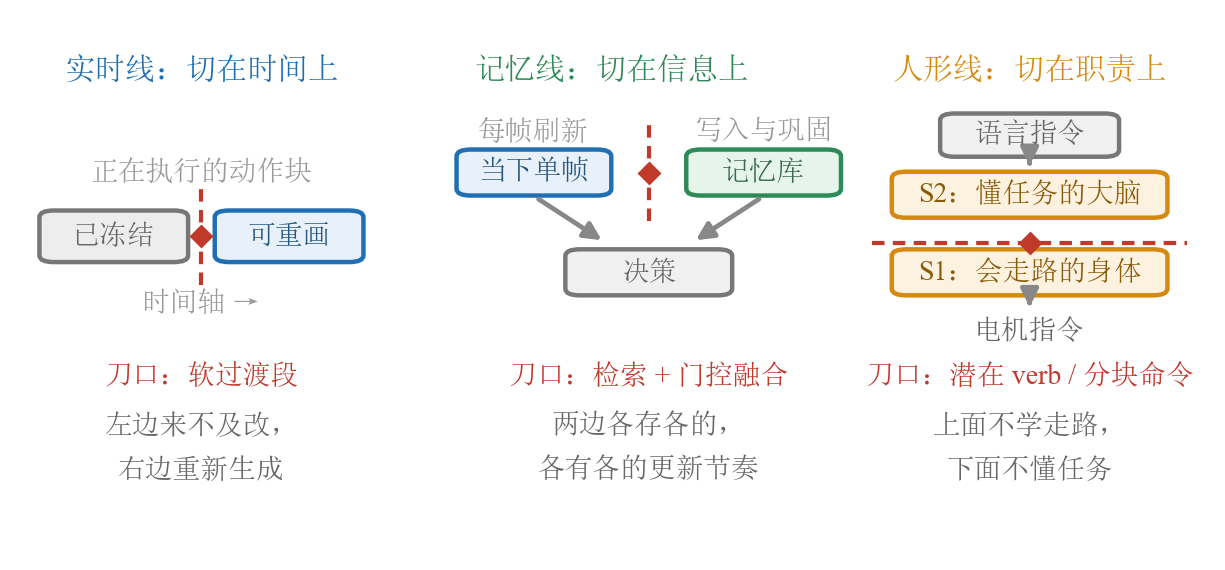
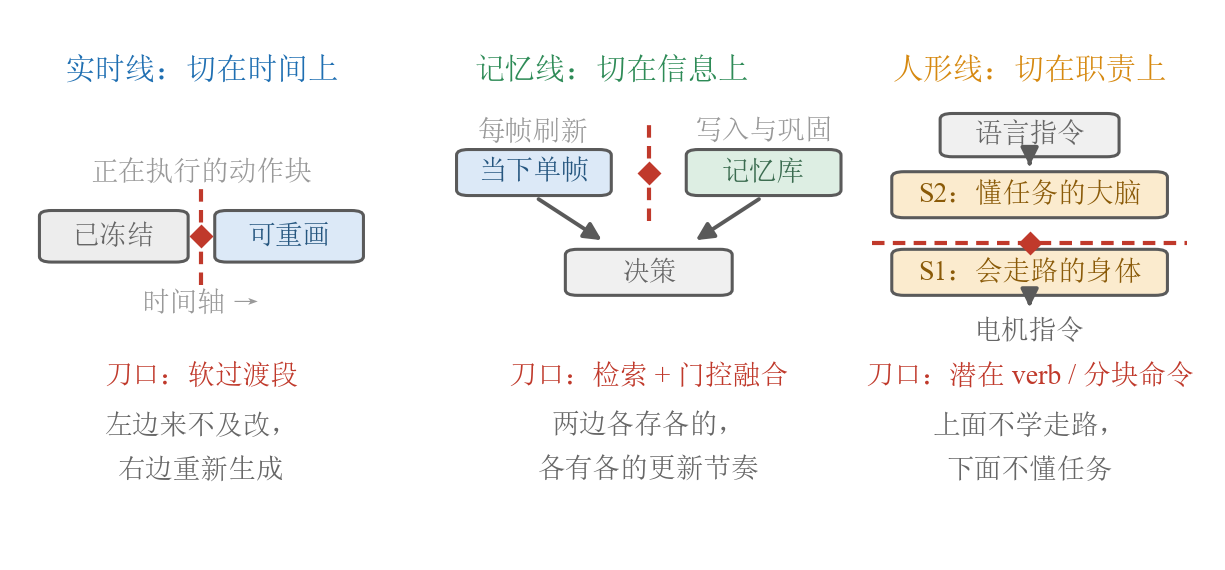
style(figures): 框线与箭头统一成流程图观感
参照 fig142-rl-taxonomy（draw.io）：细深灰框线 + 黑字 + 淡填充，
颜色只留在框的填充上，不再每个元素各自上色。

- box()/plain_box()：linewidth 2 → 1.1，边框与文字改 EDGE/INK，圆角收小
- FILL 五色整体调淡
- arrow()/connect()：默认色改 EDGE、线宽 1.7 → 1.4
- 28 处装饰性彩色箭头统一成深灰；A2C 与 DDPG 的线色有语义（图注点名
  红的更新 actor、紫的更新 critic），保留

diff --git a/assets/figures/render_diagrams.py b/assets/figures/render_diagrams.py
@@ -51,18 +51,25 @@ BODY_WIDTH_IN = 6.5    # A4 加 1 英寸边距后的版心宽度
 MIN_PRINT_PT = 8.0     # 图内最小字印在纸上的下限
 
 BLUE, GREEN, ORANGE, RED, GREY = "#1F6FB2", "#2E8B57", "#D68910", "#C0392B", "#777777"
-FILL = {BLUE: "#E8F1FA", GREEN: "#E7F4EC", ORANGE: "#FDF2E0", RED: "#FBEAE8", GREY: "#F4F4F4"}
+FILL = {BLUE: "#DCE9F7", GREEN: "#DDEEE3", ORANGE: "#FBEBCE", RED: "#F7DDDA", GREY: "#EDEDED"}
+
+# 流程图的线条与文字统一走这三个常量，颜色只留在框的填充上。
+# 参照 fig142-rl-taxonomy（draw.io 出品）：细深灰框线 + 黑字 + 淡填充，
+# 而不是"每个元素各自上色"——后者会让整张图花得刺眼、框线粗过内容。
+EDGE = "#5A5A5A"        # 框线与箭头
+INK = "#1A1A1A"         # 框内文字
+BOX_LW = 1.1
 
 
 def box(ax, x, y, w, h, color, lines):
     """在 (x,y) 画一个圆角框；lines 是 (文字, 字号, 是否加粗) 的列表，纵向居中均分。"""
-    ax.add_patch(FancyBboxPatch((x, y), w, h, boxstyle="round,pad=0.008,rounding_size=0.02",
-                                linewidth=2, edgecolor=color, facecolor=FILL[color]))
+    ax.add_patch(FancyBboxPatch((x, y), w, h, boxstyle="round,pad=0.008,rounding_size=0.014",
+                                linewidth=BOX_LW, edgecolor=EDGE, facecolor=FILL[color]))
     n = len(lines)
     gap = h / (n + 1)
     for i, (text, size, bold) in enumerate(lines, 1):
         ax.text(x + w / 2, y + h - i * gap, text, ha="center", va="center", fontsize=size,
-                fontweight="bold" if bold else "normal", color=color if bold else "#444444")
+                fontweight="bold" if bold else "normal", color=INK)
 
 
 def side(x, y, w, h, where, t=0.5):
@@ -84,14 +91,15 @@ def side(x, y, w, h, where, t=0.5):
     return (x + w, y + h * t)
 
 
-def plain_box(ax, x, y, w, h, color, fill=None, style="solid", lw=1.6):
+def plain_box(ax, x, y, w, h, color, fill=None, style="solid", lw=None):
     """只画框不写字，供需要自己排版内部元素的图使用。"""
-    ax.add_patch(FancyBboxPatch((x, y), w, h, boxstyle="round,pad=0.004,rounding_size=0.012",
-                                linewidth=lw, edgecolor=color, linestyle=style,
+    ax.add_patch(FancyBboxPatch((x, y), w, h, boxstyle="round,pad=0.004,rounding_size=0.010",
+                                linewidth=BOX_LW, edgecolor=EDGE, linestyle=style,
                                 facecolor=FILL[color] if fill is None else fill))
 
 
-def arrow(ax, a, b, color, rad=0.0, lw=1.7, style="-|>"):
+def arrow(ax, a, b, color=None, rad=0.0, lw=1.4, style="-|>"):
+    color = EDGE if color is None else color
     ax.add_patch(FancyArrowPatch(a, b, connectionstyle=f"arc3,rad={rad}", arrowstyle=style,
                                  mutation_scale=13, linewidth=lw, color=color))
 
@@ -99,7 +107,7 @@ def arrow(ax, a, b, color, rad=0.0, lw=1.7, style="-|>"):
 _NORMAL = {"top": (0, 1), "bottom": (0, -1), "left": (-1, 0), "right": (1, 0)}
 
 
-def connect(ax, src, src_side, dst, dst_side, color, lw=1.7, stub=0.055,
+def connect(ax, src, src_side, dst, dst_side, color=None, lw=1.4, stub=0.055,
             src_t=0.5, dst_t=0.5, lane=None, radius=0.016):
     """把两个框用正交折线连起来，线从边中点**垂直离开**框，不贴任何框边跑。
 
@@ -114,6 +122,7 @@ def connect(ax, src, src_side, dst, dst_side, color, lw=1.7, stub=0.055,
         lane: 中间那条公共通道的位置；两端同向时用它指定绕行的横带/竖带，
               避免两条线挤在同一条通道上。
     """
+    color = EDGE if color is None else color
     p0 = side(*src, src_side, src_t)
     p1 = side(*dst, dst_side, dst_t)
     n0, n1 = _NORMAL[src_side], _NORMAL[dst_side]
@@ -382,8 +391,8 @@ def policy_distribution():
         [("状态 $s$", 12, True), ("关节角度、躯干姿态", 10, False), ("目标速度指令", 10, False)])
     box(ax, 0.32, 0.46, 0.20, 0.34, ORANGE,
         [("策略网络 $\\pi$", 12, True), ("参数 $\\theta$", 10, False)])
-    arrow(ax, (0.265, 0.63), (0.315, 0.63), "#666666")
-    arrow(ax, (0.525, 0.63), (0.575, 0.63), "#666666")
+    arrow(ax, (0.265, 0.63), (0.315, 0.63), EDGE)
+    arrow(ax, (0.525, 0.63), (0.575, 0.63), EDGE)
 
     # 右端：高斯密度 + 一个采样点。均值 μ 是网络算出来的，宽度 σ 就是探索强度。
     inset = fig.add_axes([0.585, 0.30, 0.40, 0.44])
@@ -431,11 +440,11 @@ def onoff_dataflow():
     # 左：采样 → 更新 → 作废
     box(ax, 0.09, 0.68, 0.26, 0.13, BLUE, [("当前策略", 12, True)])
     box(ax, 0.07, 0.36, 0.30, 0.17, BLUE, [("新鲜数据", 12, True), ("（只来自当前策略）", 10, False)])
-    arrow(ax, (0.17, 0.675), (0.17, 0.535), BLUE)
+    arrow(ax, (0.17, 0.675), (0.17, 0.535), EDGE)
     label(ax, 0.135, 0.605, "采样", BLUE, 10, ha="right")
-    arrow(ax, (0.27, 0.535), (0.27, 0.675), BLUE)
+    arrow(ax, (0.27, 0.535), (0.27, 0.675), EDGE)
     label(ax, 0.305, 0.605, "更新一次", BLUE, 10, ha="left")
-    arrow(ax, (0.22, 0.35), (0.22, 0.24), GREY)
+    arrow(ax, (0.22, 0.35), (0.22, 0.24), EDGE)
     label(ax, 0.22, 0.185, "更新完立即作废", "#666666", 10)
     label(ax, 0.22, 0.09, "策略一变，全部重采", "#999999", 10)
 
@@ -715,18 +724,18 @@ def cartpole_task():
 
     # ④ 角速度画成杆尖上的一小段转向弧，落在它描述的那个量上
     arrow(ax, (pole_x + 0.008, pole_y + 0.030), (pole_x + 0.042, pole_y - 0.030),
-          "#8B5A2B", rad=-0.5, lw=1.4)
+          EDGE, rad=-0.5, lw=1.4)
     label(ax, pole_x + 0.050, pole_y - 0.048, "(4) 杆角速度 $\\dot{\\theta}$",
           "#8B5A2B", 10, ha="left")
 
     # 自由转轴是这个任务的题眼：没有任何电机去扶那根杆
-    arrow(ax, (0.075, 0.585), (CART_X - 0.020, PIVOT[1] + 0.014), "#333333", rad=-0.22, lw=1.4)
+    arrow(ax, (0.075, 0.585), (CART_X - 0.020, PIVOT[1] + 0.014), EDGE, rad=-0.22, lw=1.4)
     label(ax, 0.030, 0.615, "自由转轴：没有电机", "#333333", 10, True, ha="left")
 
     ax.annotate("", xy=(CART_X, TRACK_Y - 0.115), xytext=(XC, TRACK_Y - 0.115),
                 arrowprops=dict(arrowstyle="<|-|>", color=BLUE, linewidth=1.5))
     label(ax, 0.31, TRACK_Y - 0.175, "(1) 车位置 x", BLUE, 10, True)
-    arrow(ax, (CART_X + 0.045, TRACK_Y + 0.028), (CART_X + 0.108, TRACK_Y + 0.028), BLUE, lw=1.5)
+    arrow(ax, (CART_X + 0.045, TRACK_Y + 0.028), (CART_X + 0.108, TRACK_Y + 0.028), EDGE, lw=1.5)
     label(ax, CART_X + 0.118, TRACK_Y + 0.028, "(2) 车速度 $\\dot{x}$", BLUE, 10,
           ha="left", bg=True)
 
@@ -746,7 +755,7 @@ def cartpole_task():
         draw_pole(cx, 0.408, deg, 1.05, color, lw=2.6)
         label(ax, cx, 0.315, cap1, color, 10, True)
         label(ax, cx, 0.268, cap2, "#666666", 10)
-    arrow(ax, (0.762, 0.435), (0.828, 0.435), RED, lw=2.0)
+    arrow(ax, (0.762, 0.435), (0.828, 0.435), EDGE, lw=2.0)
     label(ax, 0.795, 0.478, "往右推", RED, 10, True)
 
     save(fig, "lecture16", "fig16-cartpole-task")
@@ -818,10 +827,10 @@ def realtime_three_routes():
     label(ax, 0.02, 0.115, "学习+投机层（Realtime-VLA V2、FLASH）", ORANGE, 11, True, ha="left")
     plain_box(ax, 0.02, 0.038, 0.29, 0.050, ORANGE)
     label(ax, 0.165, 0.063, "小模型一步猜整块 7.8 ms", "#8A5A08", 10)
-    arrow(ax, (0.315, 0.063), (0.355, 0.063), ORANGE)
+    arrow(ax, (0.315, 0.063), (0.355, 0.063), EDGE)
     plain_box(ax, 0.36, 0.038, 0.21, 0.050, ORANGE)
     label(ax, 0.465, 0.063, "主模型并行验证", "#8A5A08", 10)
-    arrow(ax, (0.575, 0.063), (0.615, 0.063), ORANGE)
+    arrow(ax, (0.575, 0.063), (0.615, 0.063), EDGE)
     label(ax, 0.62, 0.075, "命中 → 走旁路，绕开去噪", "#8A5A08", 10, ha="left")
     label(ax, 0.62, 0.038, "未命中 → 回主干完整推理 58 ms", "#8A5A08", 10, ha="left")
     save(fig, "lecture13", "fig13-1-realtime-three-routes")
@@ -857,12 +866,12 @@ def long_horizon_paradigms():
     def feed(cx, y0, with_gate):
         """从观测落到策略的一条输入通路；带闸门的多插一道分阶段掩码。"""
         if with_gate:
-            arrow(ax, (cx, y0 + 0.278), (cx, y0 + 0.250), "#888888")
+            arrow(ax, (cx, y0 + 0.278), (cx, y0 + 0.250), EDGE)
             plain_box(ax, cx - 0.0375, y0 + 0.195, 0.075, 0.048, ORANGE)
             label(ax, cx, y0 + 0.219, "掩码闸门", "#8A5A08", 10)
-            arrow(ax, (cx, y0 + 0.190), (cx, y0 + 0.166), "#888888")
+            arrow(ax, (cx, y0 + 0.190), (cx, y0 + 0.166), EDGE)
         else:
-            arrow(ax, (cx, y0 + 0.278), (cx, y0 + 0.166), "#888888")
+            arrow(ax, (cx, y0 + 0.278), (cx, y0 + 0.166), EDGE)
 
     def cell(x0, y0, tag, flags, draw):
         w, h = 0.475, 0.38
@@ -935,8 +944,8 @@ def one_cut_three_lines():
     plain_box(ax, 0.565, 0.665, 0.12, 0.075, GREEN)
     label(ax, 0.625, 0.7025, "记忆库", "#3A6B4F", 10)
     cut(0.53, 0.615, 0.53, 0.79)
-    arrow(ax, (0.435, 0.660), (0.495, 0.575), "#888888")
-    arrow(ax, (0.625, 0.660), (0.565, 0.575), "#888888")
+    arrow(ax, (0.435, 0.660), (0.495, 0.575), EDGE)
+    arrow(ax, (0.625, 0.660), (0.565, 0.575), EDGE)
     plain_box(ax, 0.465, 0.485, 0.13, 0.075, GREY, fill="#F0F0F0")
     label(ax, 0.53, 0.5225, "决策", "#666666", 10)
     label(ax, 0.53, 0.335, "刀口：检索 + 门控融合", RED, 10)
@@ -947,13 +956,13 @@ def one_cut_three_lines():
     label(ax, 0.845, 0.885, "人形线：切在职责上", ORANGE, 11, True)
     plain_box(ax, 0.775, 0.735, 0.14, 0.070, GREY, fill="#F0F0F0")
     label(ax, 0.845, 0.770, "语言指令", "#666666", 10)
-    arrow(ax, (0.845, 0.730), (0.845, 0.705), "#888888")
+    arrow(ax, (0.845, 0.730), (0.845, 0.705), EDGE)
     plain_box(ax, 0.735, 0.625, 0.22, 0.075, ORANGE)
     label(ax, 0.845, 0.6625, "S2：懂任务的大脑", "#8A5A08", 10)
     cut(0.715, 0.575, 0.975, 0.575)
     plain_box(ax, 0.735, 0.485, 0.22, 0.075, ORANGE)
     label(ax, 0.845, 0.5225, "S1：会走路的身体", "#8A5A08", 10)
-    arrow(ax, (0.845, 0.480), (0.845, 0.450), "#888888")
+    arrow(ax, (0.845, 0.480), (0.845, 0.450), EDGE)
     label(ax, 0.845, 0.415, "电机指令", "#666666", 10)
     label(ax, 0.845, 0.335, "刀口：潜在 verb / 分块命令", RED, 10)
     label(ax, 0.845, 0.245, "上面不学走路，", "#666666", 10)
@@ -978,7 +987,7 @@ def motion_taxonomy():
 
     # 分叉走正交：从根框底边中点下来，沿一条横带分左右，再垂直进两个子框顶边。
     for child in (left, right):
-        connect(ax, root, "bottom", child, "top", "#888888", stub=0.035, lane=0.825)
+        connect(ax, root, "bottom", child, "top", EDGE, stub=0.035, lane=0.825)
 
     # 每组的竖干落在子框外侧的空白里（早先取在框内 0.085，线就贴着框左边缘跑）。
     for parent, xbox, color, items in (
@@ -989,16 +998,16 @@ def motion_taxonomy():
             y = 0.500 - i * 0.110
             child = (xbox, y, 0.335, 0.086)
             plain_box(ax, *child, color)
-            label(ax, xbox + 0.1675, y + 0.043, text, "#444444", 10)
+            label(ax, xbox + 0.1675, y + 0.043, text, INK, 10)
             ax.plot([xline, xline], [parent[1] - 0.030, y + 0.043],
-                    color=color, linewidth=1.2)
-            arrow(ax, (xline, y + 0.043), (xbox - 0.008, y + 0.043), color, lw=1.2)
-        ax.plot([xline, xline], [parent[1], parent[1] - 0.030], color=color, linewidth=1.2)
+                    color=EDGE, linewidth=BOX_LW)
+            arrow(ax, (xline, y + 0.043), (xbox - 0.008, y + 0.043), lw=BOX_LW)
+        ax.plot([xline, xline], [parent[1], parent[1] - 0.030], color=EDGE, linewidth=BOX_LW)
 
 
     plain_box(ax, 0.535, 0.115, 0.42, 0.175, GREEN, fill="#D8EDE1", lw=2.0)
-    label(ax, 0.745, 0.235, "本讲起走这一支", GREEN, 11, True)
-    label(ax, 0.745, 0.155, "观测直接进、动作直接出", "#3A6B4F", 10)
+    label(ax, 0.745, 0.235, "本讲起走这一支", INK, 11, True)
+    label(ax, 0.745, 0.155, "观测直接进、动作直接出", INK, 10)
     save(fig, "lecture08", "fig08-1-motion-taxonomy")
 
 
@@ -1073,13 +1082,13 @@ def train_deploy_roundtrip():
         plain_box(ax, x0, 0.665, w, 0.225, BLUE)
         label(ax, x0 + w / 2, 0.7775, text, "#25567F", 10)
         if i:                       # 上排从左往右：数据进网络
-            arrow(ax, (x0 - gap + 0.003, 0.7775), (x0 - 0.003, 0.7775), BLUE)
+            arrow(ax, (x0 - gap + 0.003, 0.7775), (x0 - 0.003, 0.7775), EDGE)
     for i, text in enumerate(lower):
         x0 = 0.015 + i * (w + gap)
         plain_box(ax, x0, 0.315, w, 0.225, RED)
         label(ax, x0 + w / 2, 0.4275, text, "#8E3226", 10)
         if i:                       # 下排从右往左：输出原路走回来
-            arrow(ax, (x0 - 0.003, 0.4275), (x0 - gap + 0.003, 0.4275), RED)
+            arrow(ax, (x0 - 0.003, 0.4275), (x0 - gap + 0.003, 0.4275), EDGE)
 
     # 两条虚线就是本节要拆的两处衔接：断在这里，网络再好也没用。
     for i, text in enumerate(("两端必须用\n同一套口径", "两端必须用\n同一套统计量")):
@@ -1237,7 +1246,7 @@ def lerobot_layers():
         label(ax, x0 + 0.02, y + h / 2, name, GREEN if mine else "#333333", 11, mine, ha="left")
         label(ax, x0 + w - 0.02, y + h / 2, detail, "#666666", 10, ha="right")
         if i:
-            arrow(ax, (x0 + 0.10, y + h + gap - 0.003), (x0 + 0.10, y + h + 0.003), "#AAAAAA", lw=1.2)
+            arrow(ax, (x0 + 0.10, y + h + gap - 0.003), (x0 + 0.10, y + h + 0.003), EDGE, lw=1.2)
 
     # lerobot-record 实际穿过的那条路：入口 → 遥操作器读动作 → 实物执行 → 数据管线落盘。
     px = x0 + w + 0.045
@@ -1317,27 +1326,27 @@ def act_step3_dataflow():
     plain_box(ax, 0.165, 0.46, 0.145, 0.34, BLUE)
     label(ax, 0.2375, 0.70, "ResNet18", BLUE, 11, True)
     label(ax, 0.2375, 0.555, "每路出\n15×20×512", "#4A6A85", 10)
-    arrow(ax, (0.138, 0.63), (0.162, 0.63), GREY, lw=1.4)
+    arrow(ax, (0.138, 0.63), (0.162, 0.63), EDGE, lw=1.4)
 
     plain_box(ax, 0.34, 0.46, 0.145, 0.34, BLUE)
     label(ax, 0.4125, 0.70, "展平 + 位置编码", BLUE, 11, True)
     label(ax, 0.4125, 0.555, "每路 300 个\n512 维 token", "#4A6A85", 10)
-    arrow(ax, (0.313, 0.63), (0.337, 0.63), GREY, lw=1.4)
+    arrow(ax, (0.313, 0.63), (0.337, 0.63), EDGE, lw=1.4)
 
     plain_box(ax, 0.515, 0.46, 0.15, 0.34, GREEN)
     label(ax, 0.59, 0.70, "Transformer\nEncoder", GREEN, 11, True)
     label(ax, 0.59, 0.535, "4 层自注意力", "#3D6B51", 10)
-    arrow(ax, (0.488, 0.63), (0.512, 0.63), GREY, lw=1.4)
+    arrow(ax, (0.488, 0.63), (0.512, 0.63), EDGE, lw=1.4)
 
     plain_box(ax, 0.695, 0.46, 0.15, 0.34, ORANGE)
     label(ax, 0.77, 0.70, "Transformer\nDecoder", ORANGE, 11, True)
     label(ax, 0.77, 0.535, "1 层交叉注意力", "#8A6212", 10)
-    arrow(ax, (0.668, 0.63), (0.692, 0.63), GREY, lw=1.4)
+    arrow(ax, (0.668, 0.63), (0.692, 0.63), EDGE, lw=1.4)
 
     plain_box(ax, 0.875, 0.46, 0.108, 0.34, RED)
     label(ax, 0.929, 0.70, "预测的\n动作序列", RED, 11, True)
     label(ax, 0.929, 0.535, "$k$ 步动作块", "#8B3A2E", 10)
-    arrow(ax, (0.848, 0.63), (0.872, 0.63), GREY, lw=1.4)
+    arrow(ax, (0.848, 0.63), (0.872, 0.63), EDGE, lw=1.4)
 
     # 关节状态与 z 走的是旁路：不过 ResNet，各自一个线性层直接投到 512 维进 encoder。
     ax.add_patch(FancyArrowPatch((0.138, 0.40), (0.560, 0.44), connectionstyle="arc3,rad=0.16",
@@ -1801,7 +1810,7 @@ def alternating_ca_sa():
             if is_ca:
                 ax.plot([0.147, x0 + 0.026], [y + 0.050, y + 0.050], color=GREY,
                         linewidth=1.0, linestyle=(0, (2, 2)), zorder=0)
-                arrow(ax, (x0 + 0.008, y + 0.050), (x0 + 0.028, y + 0.050), GREY, lw=1.3)
+                arrow(ax, (x0 + 0.008, y + 0.050), (x0 + 0.028, y + 0.050), EDGE, lw=1.3)
         label(ax, x0 + w / 2, 0.272, note, "#666666", 10)
 
     # 因果掩码画成下三角，说明 SA 只往回看。
